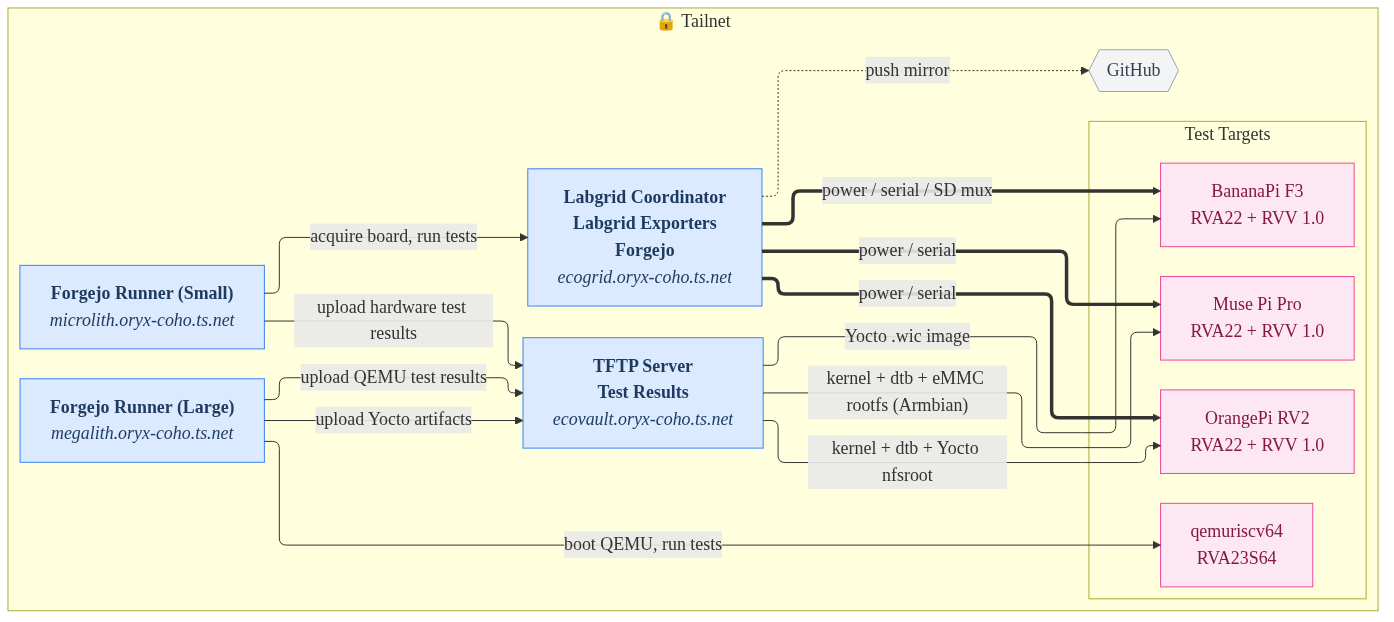
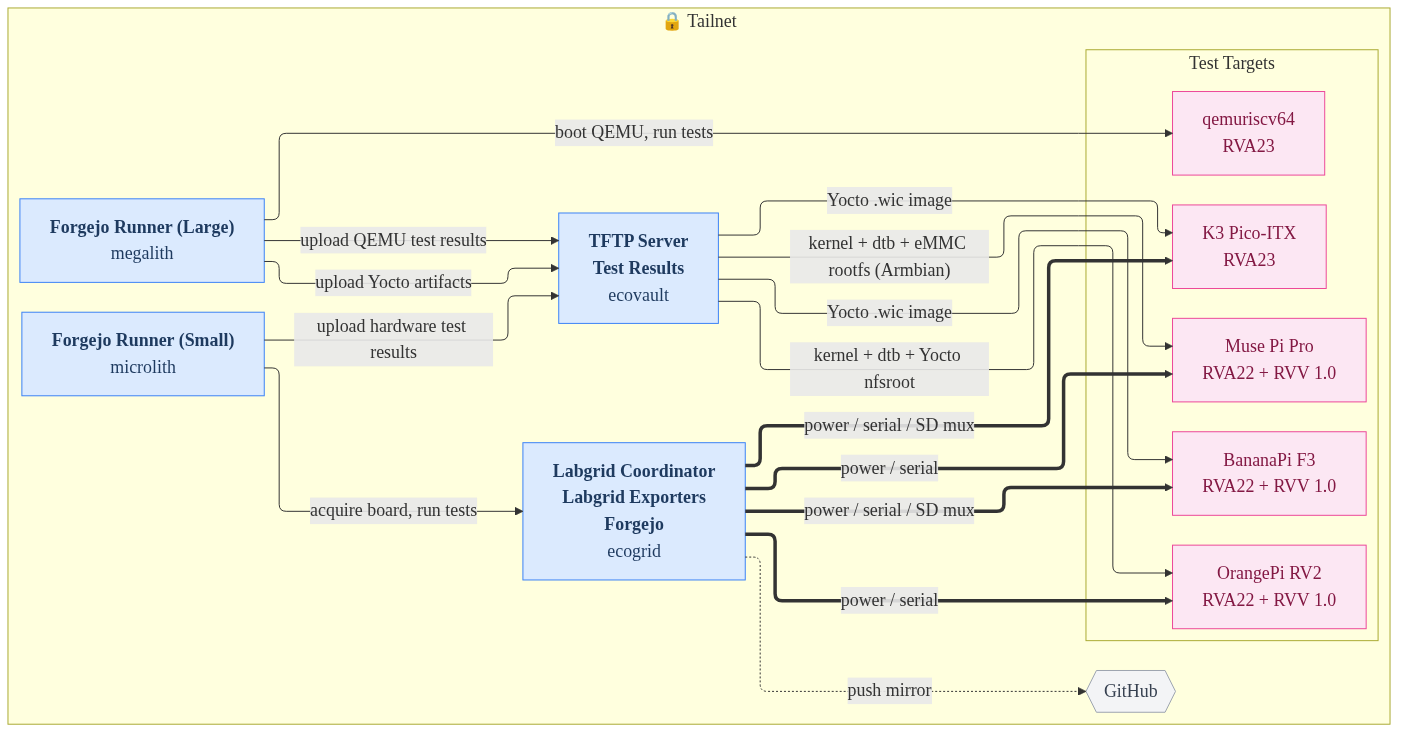
docs: update network files, bom

diff --git a/docs/bom.md b/docs/bom.md
@@ -32,7 +32,8 @@
 | `board_1` | BananaPi F3 | BananaPi | [BPI-F3](https://wiki.banana-pi.org/Banana_Pi_BPI-F3) | riscv64 (RVA22 + RVV 1.0) | serial + power + sd mux |
 | `board_2` | Muse Pi Pro | SpacemiT | [Muse Pi Pro](https://www.spacemit.com/muse-pi-pro/) | riscv64 (RVA22 + RVV 1.0) | serial + power |
 | `board_3` | OrangePi RV2 | OrangePi | [OrangePi RV2](http://www.orangepi.org/html/hardWare/computerAndMicrocontrollers/details/Orange-Pi-RV2.html) | riscv64 (RVA22 + RVV 1.0) | serial + power |
-| `board_4` | qemuriscv64 | QEMU | RVA23S64 | riscv64 (RVA23S64) | virtual |
+| `board_4` | qemuriscv64 | QEMU | RVA23S64 | riscv64 (RVA23) | virtual |
+| `board_5` | K3 Pico-ITX | Sipeed | K3 Pico-ITX | riscv64 (RVA23) | serial + power + sd mux |
 
 ### BananaPi F3
 
@@ -55,3 +56,11 @@
 |-----------|------|-------------|------|
 | power | [BayLibre CoPilot](https://baylibre.com/copilot/) | BayLibre_Copilot_Lite_V1.2 | Power control |
 | serial | [Raspberry Pi Debug Probe](https://www.raspberrypi.com/products/debug-probe/) | Debug_Probe__CMSIS-DAP_0101 | USB-to-UART bridge |
+
+### K3 Pico-ITX
+
+| Interface | Part | Part Number | Role |
+|-----------|------|-------------|------|
+| power | [BayLibre CoPilot](https://baylibre.com/copilot/) | BayLibre_Copilot_Lite_V1.2 | Power control |
+| serial | [Raspberry Pi Debug Probe](https://www.raspberrypi.com/products/debug-probe/) | Debug_Probe__CMSIS-DAP_0101 | USB-to-UART bridge |
+| SD mux | [USB SD Mux](https://linux-automation.com/en/products/usb-sd-mux.html) | usb-sd-mux_rev4.0 | USB SD Mux controller |
